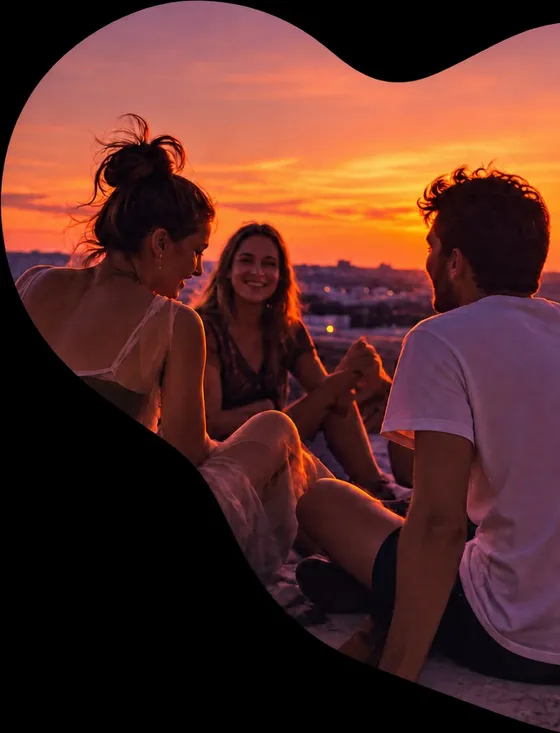
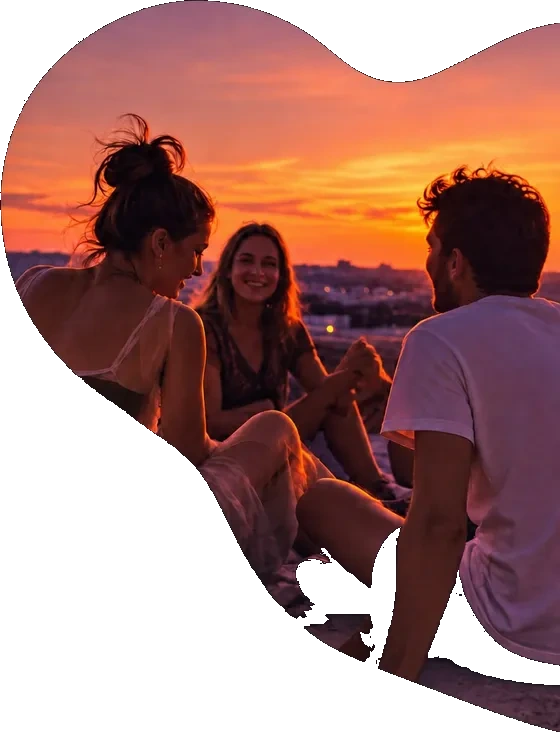
fix(pro): Herz-Freistellung ins Asset gebacken — WKWebView ignorierte den Blend-Mode (Tina, 05.11.)
mix-blend-mode:lighten versteckte das Schwarz um Tinas Herz-Foto in
Chromium, aber nicht im iOS-WebView: TestFlight zeigte einen schwarzen
Kasten. Das randverbundene Schwarz ist jetzt per Flood-Fill transparent
im WebP selbst (mit Alphakanal), der Blend-Mode entfällt.

diff --git a/frontend/src/components/ProModal.jsx b/frontend/src/components/ProModal.jsx
@@ -11,10 +11,11 @@ import { purchasePlaySubscription, restorePlayPurchases } from '../utils/playBil
 import { useToast } from '../context/ToastContext';
 import { InterestButton } from './InterestButton';
 import { JamieWordmark } from './JamieWordmark';
-// Tina's heart-mask hero (27.10.2026). The PNG she sent has NO alpha channel —
-// the area around the heart is pure black. mix-blend-mode:lighten on the img
-// melts that black into the dark sheet gradient (max per channel), so the
-// photo needs no transparent cut-out. Keep the sheet background dark.
+// Tina's heart-mask hero (27.10.2026). Her PNG had no alpha (black around the
+// heart); the mix-blend-mode:lighten workaround melted that black into the
+// sheet in Chromium but NOT in the iOS WKWebView (TestFlight showed a black
+// box — Tina, 05.11.2026), so the cut-out is now baked into the asset itself
+// (border-connected black flood-filled to alpha). No blend mode needed.
 import proHero from '../assets/pro-hero.webp';
 
 // The public web app — where Terms and Privacy live for every client.
@@ -721,7 +722,7 @@ export const ProModal = ({ onClose, onSuccess, feature = null }) => {
                 <img src={proHero} alt="" aria-hidden="true" draggable={false} style={{
                   flex:'0 0 auto', width:'45%', maxWidth:'215px', height:'auto',
                   marginRight:'-22px', marginTop:'-4px',
-                  mixBlendMode:'lighten', pointerEvents:'none', userSelect:'none',
+                  pointerEvents:'none', userSelect:'none',
                 }} />
               </div>
 
